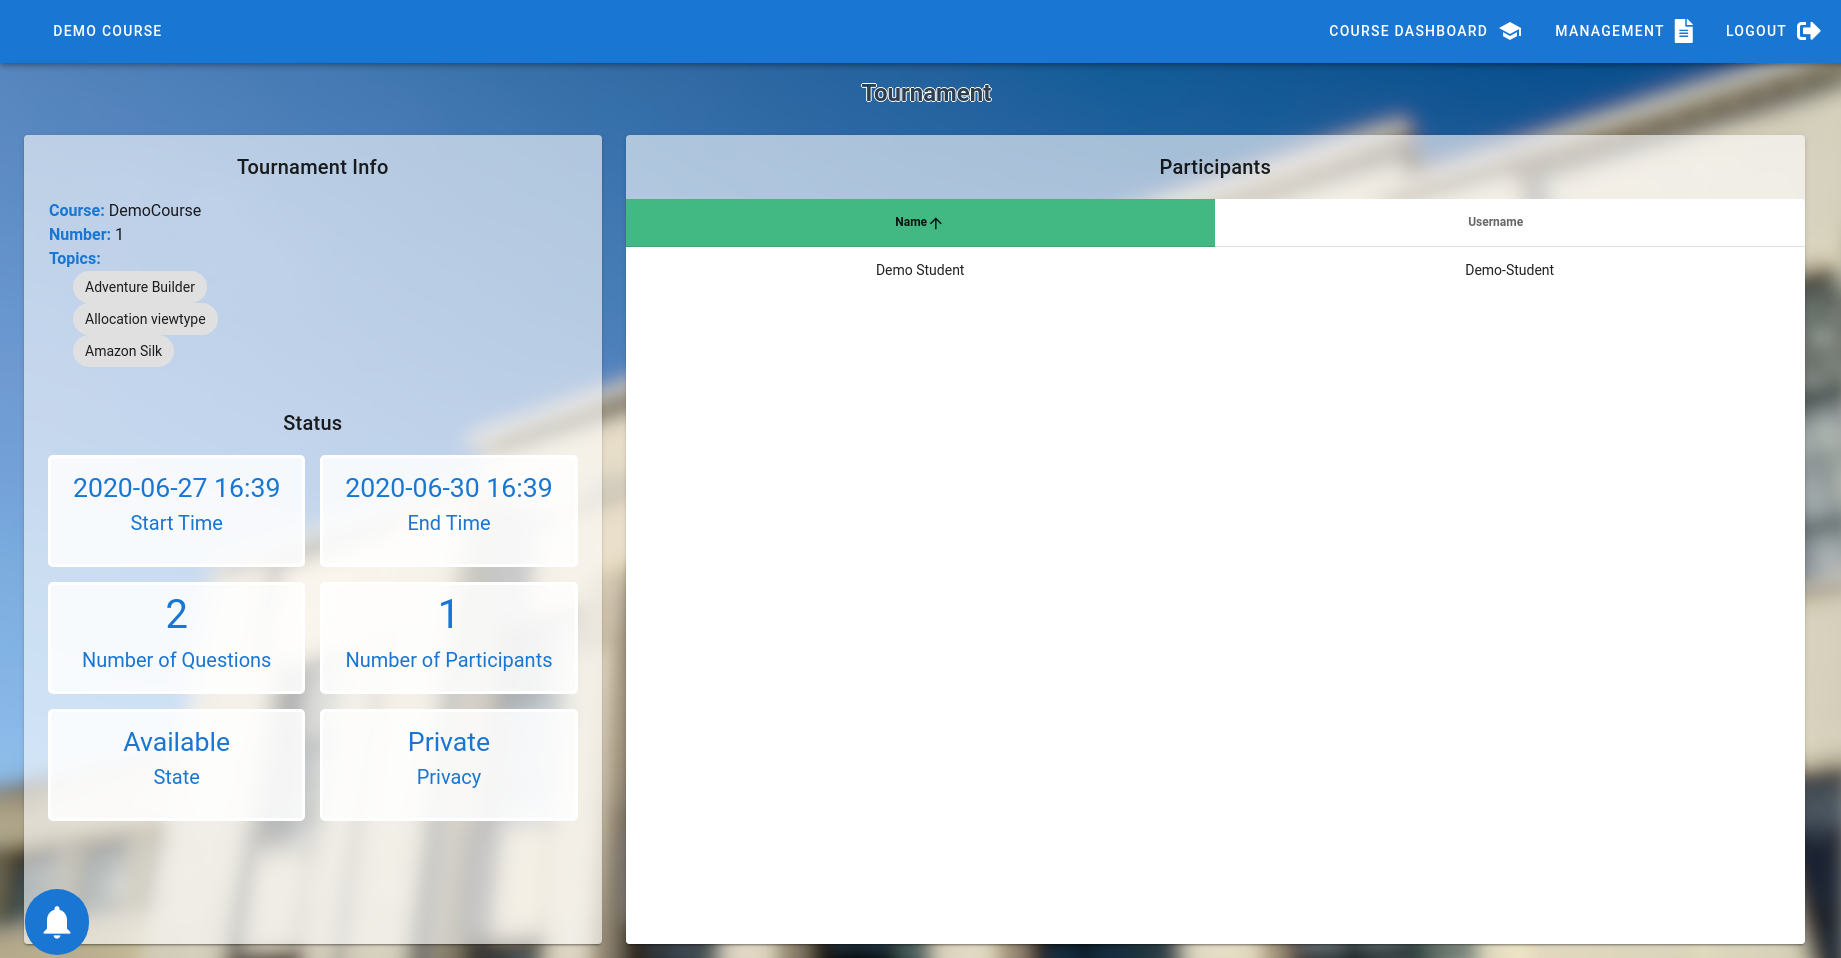
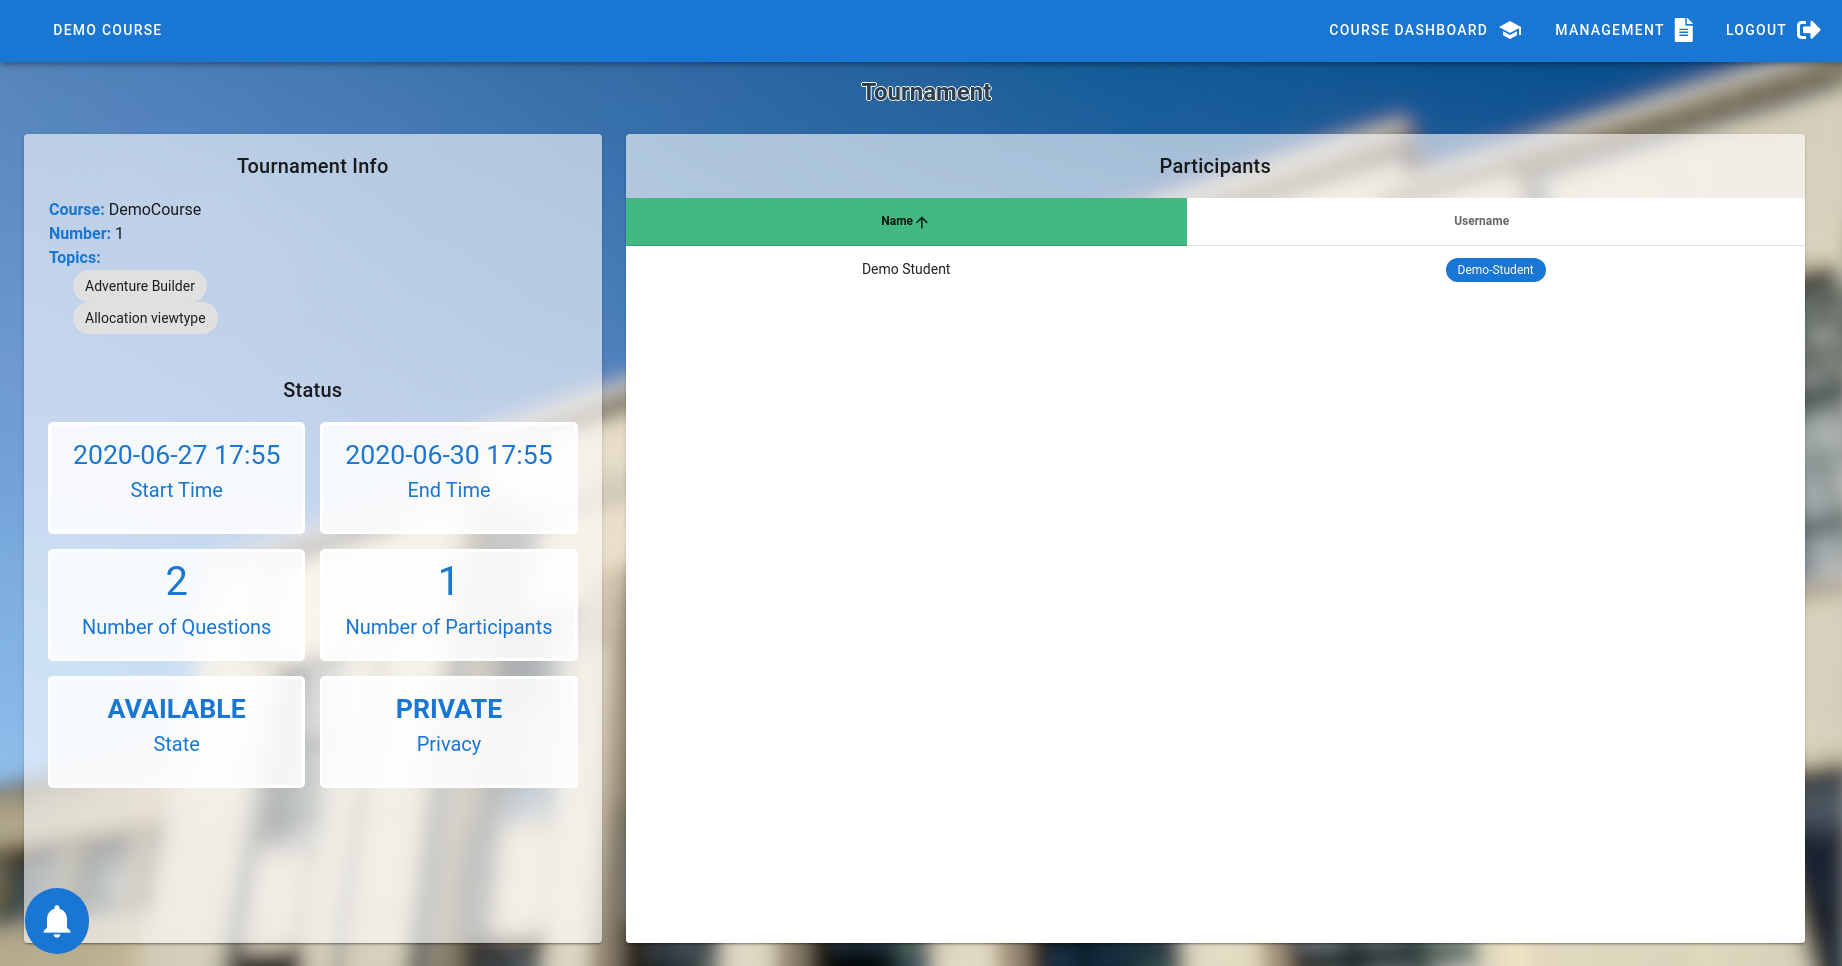
NovaBase.mdedit

diff --git a/frontend/src/views/student/tournament/ParticipantsTournament.vue b/frontend/src/views/student/tournament/ParticipantsTournament.vue
@@ -33,10 +33,9 @@
               </template>
               <template v-slot:item.username="{ item }">
                 <v-chip
-                  :color="getUserColor(item.username)"
+                  color="primary"
                   small
                   @click="openStudentDashboardDialog(item)"
-                  text-color="white"
                 >
                   <v-icon left small v-if="isCurrentUser(item)" color="white"
                     >star</v-icon
@@ -183,11 +182,6 @@ export default class ParticipantsTournament extends Vue {
 
   onCloseShowDashboardDialog() {
     this.dashboardDialog = false;
-  }
-
-  getUserColor(username: string) {
-    if (username == this.$store.getters.getUser.username) return '#fae319';
-    else return 'primary';
   }
 }
 </script>

diff --git a/NovaBase.md b/NovaBase.md
@@ -96,8 +96,11 @@
     2 - Seleciona um torneio existente
     ![Tournament Dashboard](assets/img/NovaBase/Tdp/TeacherTournaments_2.png)
 
-    3 - Acede à dashboard de um aluno
+    3 - Visualiza uma preview da dashboard de um aluno
     ![Tournament Dashboard](assets/img/NovaBase/Tdp/TeacherTournaments_3.png)
+
+    4 - Acede à dashboard de um aluno
+    ![Tournament Dashboard](assets/img/NovaBase/Tdp/TeacherTournaments_4.png)
 
 - ##### Lista de Torneios Fechados
   - É possivel agora cada aluno consultar e obter informação sobre os torneios que já terminaram
@@ -109,8 +112,8 @@
 - ##### Ranking de participantes
   - É possivel agora cada aluno consultar o ranking de um determinado torneio, permitindo ver quem é o aluno com melhor classificação, sendo que o vencedor será o / os participantes com melhor nota aquando do fim do torneio
 
-    1 - Aluno acede à lista de torneios fechados
-    ![Closed Tournaments List](assets/img/NovaBase/Tdp/TournamentRankings_1.png)
+    1 - Aluno acede à lista de torneios existentes
+    ![Tournaments List](assets/img/NovaBase/Tdp/TournamentRankings_1.png)
 
     2 - Seleciona um torneio existente e observa a lista de participantes e os respetivos lugares
     ![Tournament Rankings](assets/img/NovaBase/Tdp/TournamentRankings_2.png)
